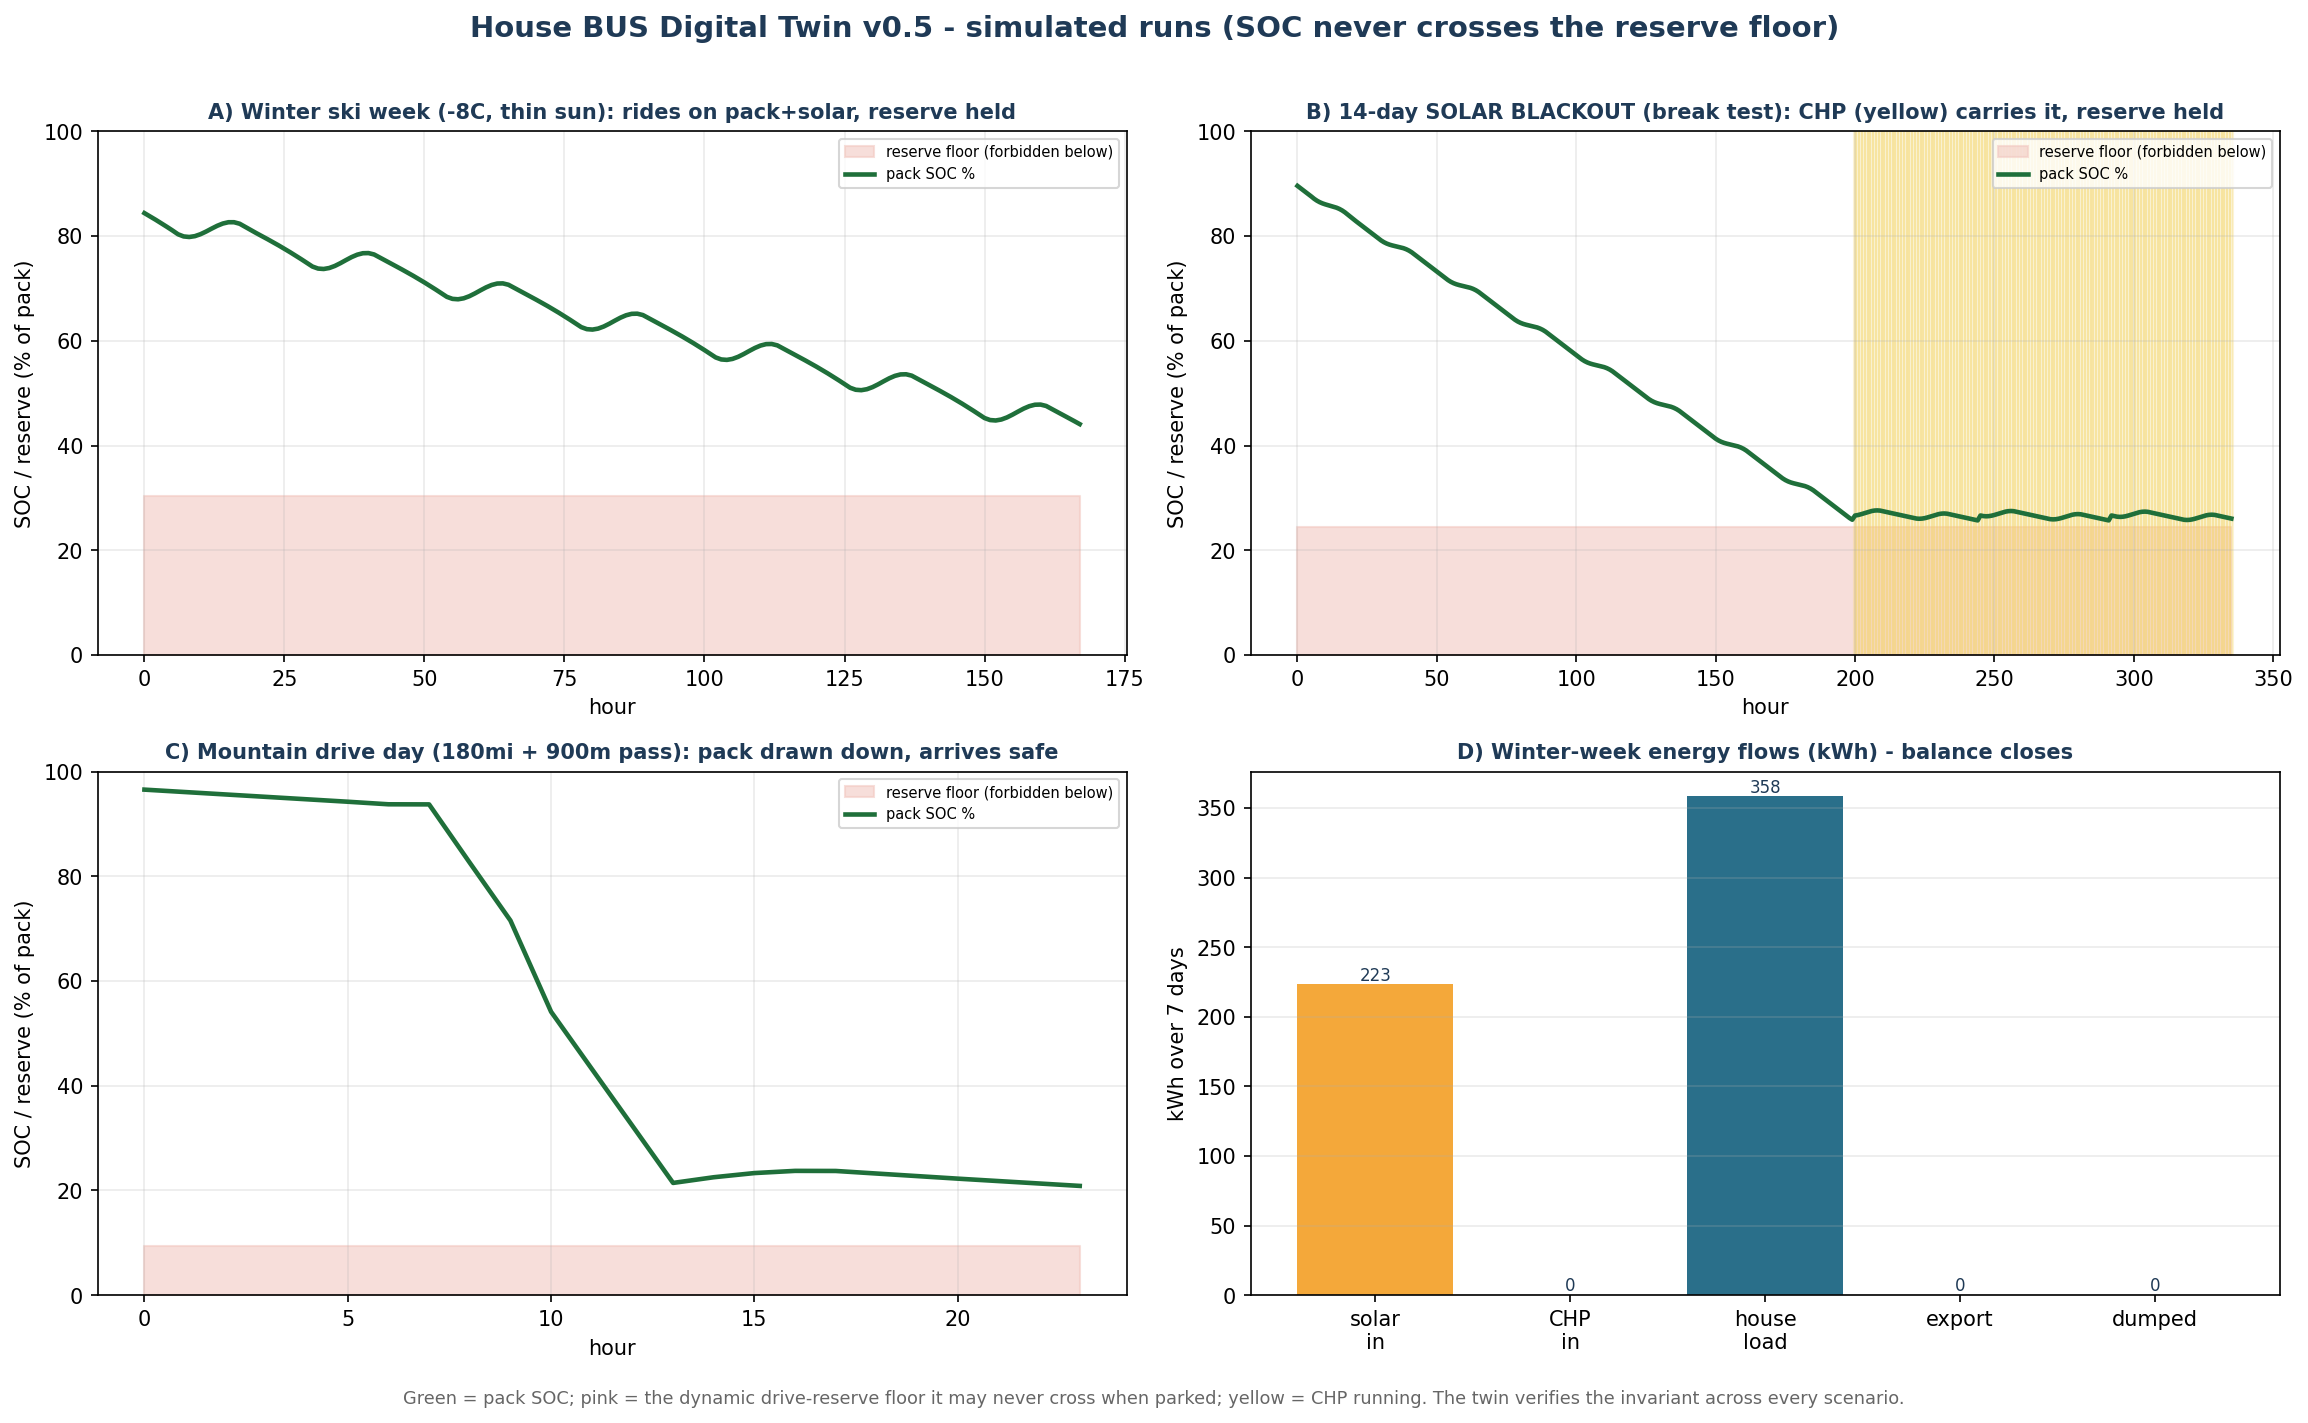
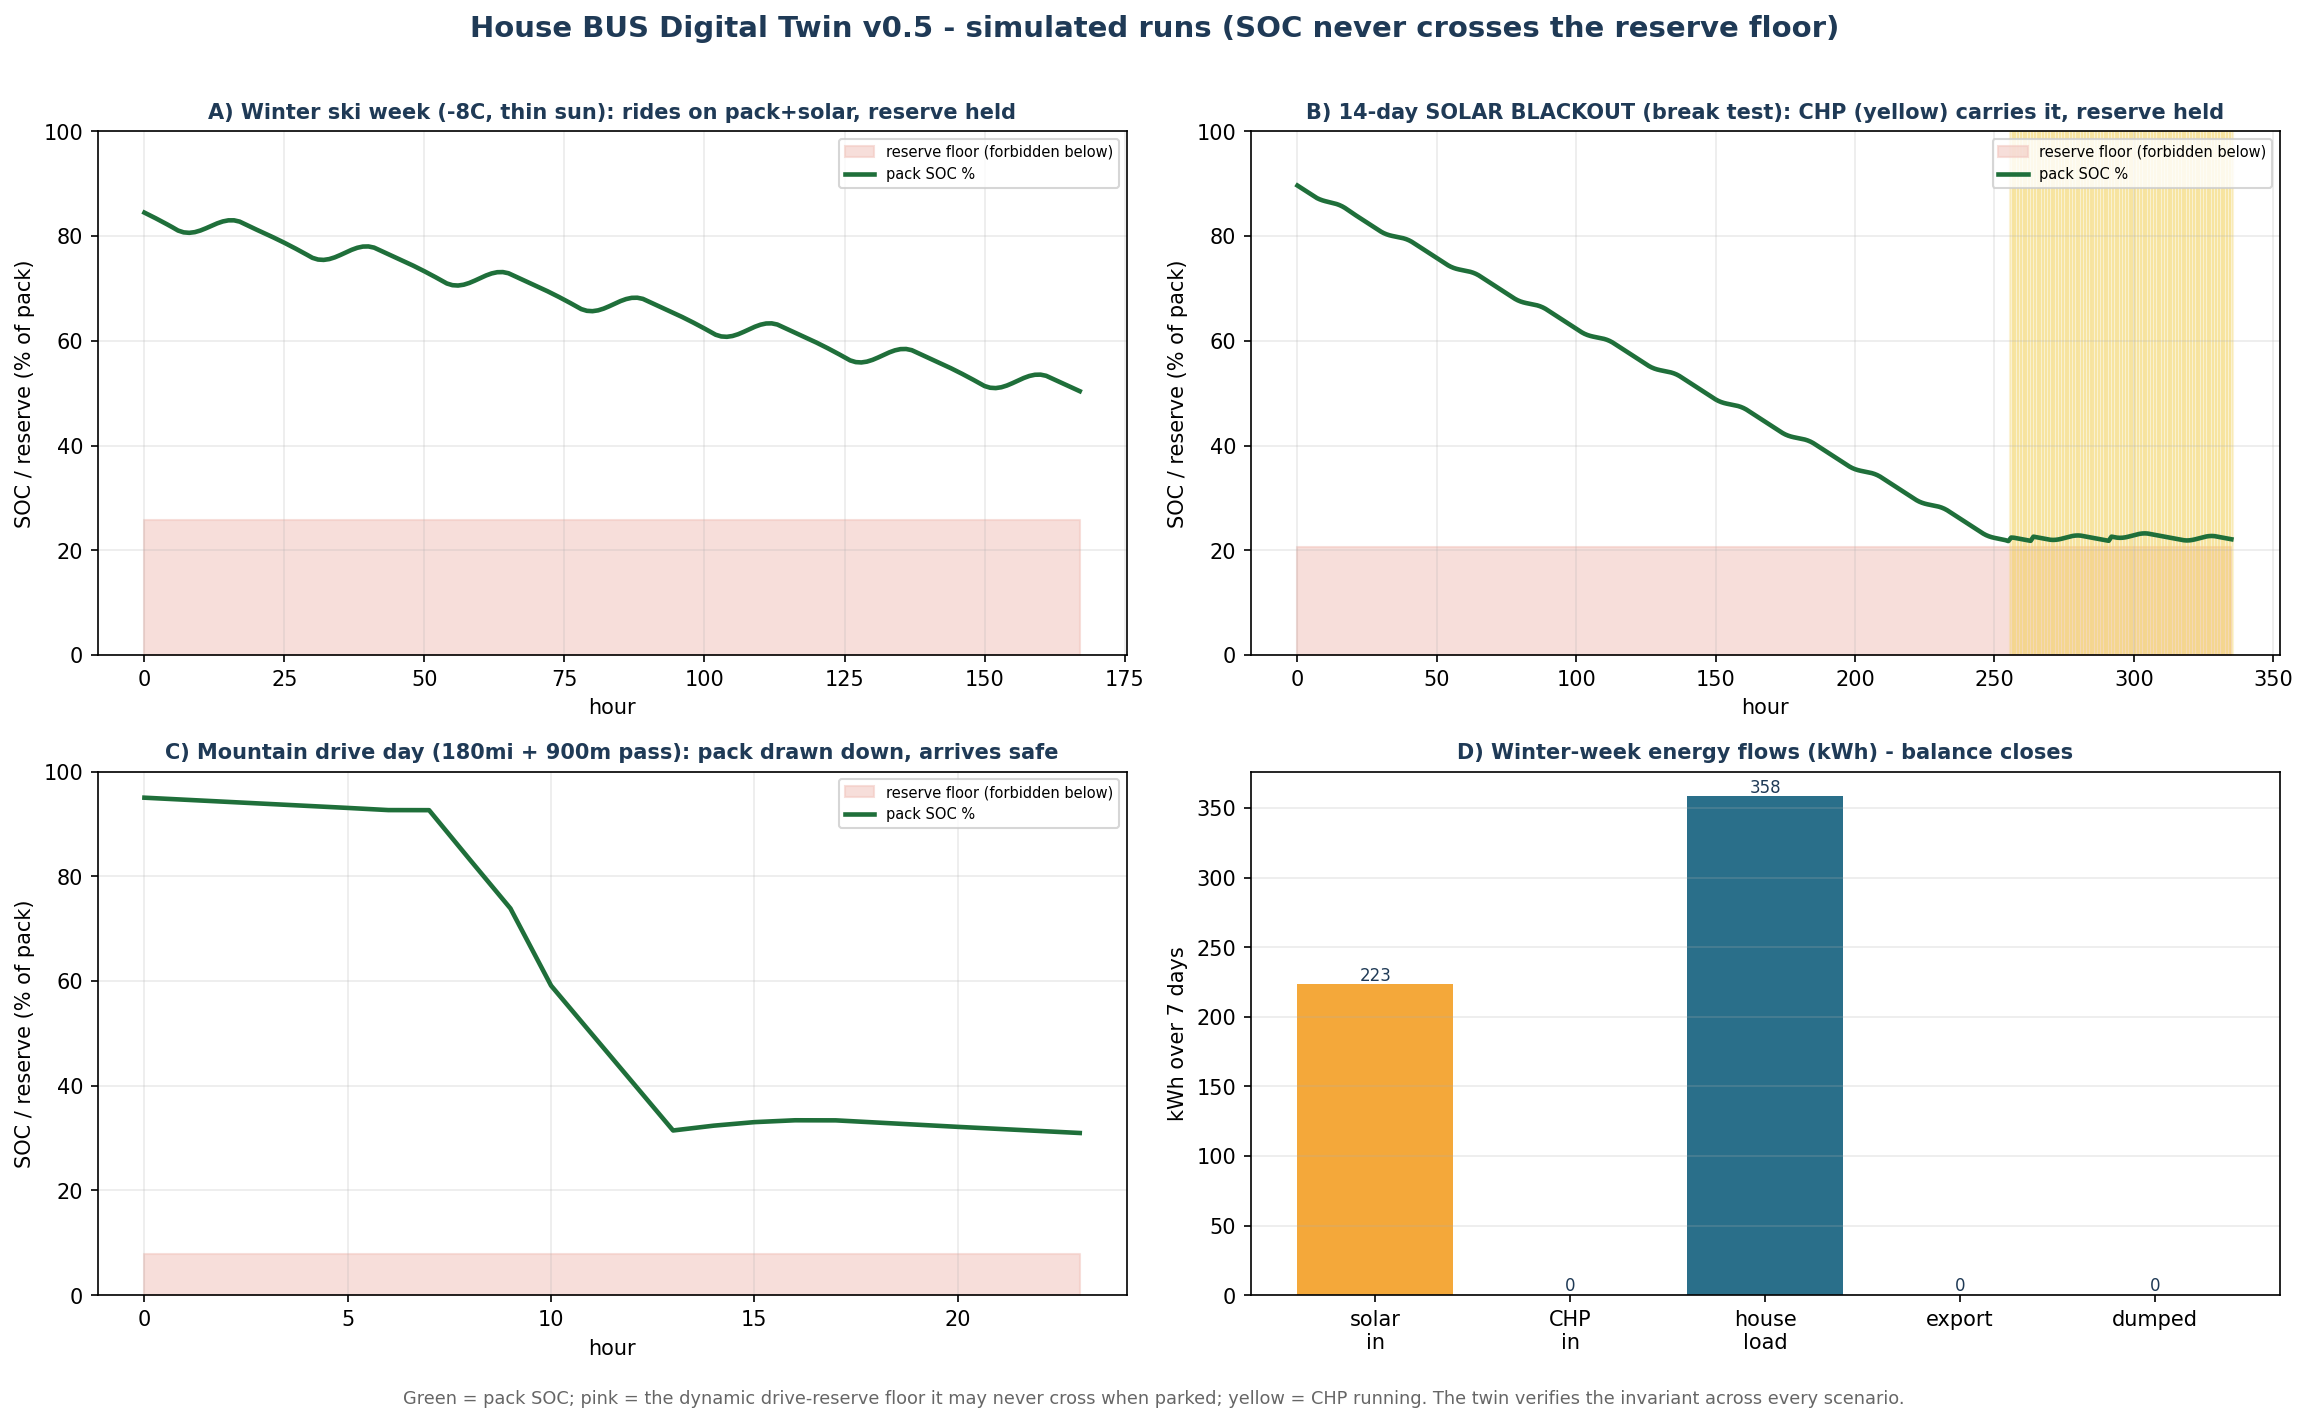
Pack capacity: nameplate vs usable, BMS window, and the survival reserve
High tier 390 kWh nameplate -> ~351 kWh daily-usable (charge ceiling ~95%, app-0% at ~5%) + a hidden ~8-12 kWh survival reserve (2-5%) for critical loads only.

Two distinct reserves: the fixed chemistry/BMS window (protects cells, guarantees a keep-the-lights-on minimum) vs the dynamic operational drive-reserve (get-home energy inside the usable window, enforced by L1). Sodium is 0V-safe at 100% DOD with no mechanical degradation, so the bottom buffer is a design choice, not a chemistry cap - we use a wide ~90% window and still keep a survival sliver.

Correction: quote range on usable (~351 -> ~290 mi at 1.2 kWh/mi), not nameplate; tier figures are nameplate and need a usable+range each. Updated the digital twin to the 390/351 model + 2% survival floor (baselines still safe; the backcountry edge moved out to ~240 mi). Figure: pack_capacity_stack.png. Also updated 00_MASTER_INDEX.

Next v0.6: confirm the real cell (CATL Naxtra / Hithium) and its top-charge/DoD curve; propagate usable-range into the tier and winter-energy docs.

diff --git a/08_Controls_and_Software/digital_twin/cap_stack.py b/08_Controls_and_Software/digital_twin/cap_stack.py
@@ -1,0 +1,74 @@
+import matplotlib
+matplotlib.use("Agg")
+import matplotlib.pyplot as plt
+from matplotlib.patches import FancyBboxPatch
+TXT="#1f3a56"
+fig, ax = plt.subplots(figsize=(14, 9.5)); ax.set_xlim(0,100); ax.set_ylim(0,100); ax.axis("off")
+fig.suptitle("House BUS pack: capacity stack (390 kWh nameplate -> ~351 kWh usable)  +  the TWO reserves",
+             fontsize=13.5, fontweight="bold", color=TXT, y=0.97)
+
+def y(kwh): return 10 + kwh/390*78
+bar_x, bar_w = 20, 16
+segs = [
+    (0,    7.8,  "#7a1f16"),
+    (7.8,  19.5, "#c0392b"),
+    (19.5, 370.5,"#2a7a4a"),
+    (370.5,390,  "#e0a800"),
+]
+for lo,hi,c in segs:
+    ax.add_patch(FancyBboxPatch((bar_x,y(lo)),bar_w,y(hi)-y(lo),
+        boxstyle="square,pad=0",facecolor=c,edgecolor="white",lw=1.2))
+# big usable label inside
+ax.text(bar_x+bar_w/2,(y(19.5)+y(370.5))/2,"USABLE WINDOW\n~351 kWh\n(app 0% -> 100%)",
+        fontsize=9,ha="center",va="center",color="white",fontweight="bold")
+# scale ticks
+for kwh in [0,100,200,300,390]:
+    ax.plot([bar_x-1,bar_x],[y(kwh),y(kwh)],color="#888",lw=1)
+    ax.text(bar_x-1.8,y(kwh),f"{kwh}",fontsize=7.5,ha="right",va="center",color="#555")
+ax.text(bar_x-1.8,y(390)+3,"kWh",fontsize=7.5,ha="right",color="#555")
+
+# callouts to the LEFT for thin segments
+def callout(kwh_anchor, label_kwh, text, color):
+    ax.annotate(text, xy=(bar_x, y(kwh_anchor)), xytext=(bar_x-9, y(label_kwh)),
+                fontsize=6.8, ha="right", va="center", color=color, fontweight="bold",
+                arrowprops=dict(arrowstyle="-", color=color, lw=1))
+callout(385, 385, "TOP BUFFER (95->100%)\ncharge ceiling ~95%\nlongevity + BMS balancing", "#a67c00")
+callout(13.6, 70, "SURVIVAL RESERVE (2->5%)\ncritical loads only:\nBMS/controls/comms/egress", "#c0392b")
+callout(3.9, 30, "HARD FLOOR ~2%\nsodium 0V-safe cutoff", "#7a1f16")
+
+# DRIVE-RESERVE band inside usable
+dr_lo, dr_hi = 19.5, 19.5+120
+ax.add_patch(FancyBboxPatch((bar_x+bar_w+2, y(dr_lo)), 2.5, y(dr_hi)-y(dr_lo),
+    boxstyle="square,pad=0", facecolor="#f2c9c2", edgecolor="#c0392b", lw=1.2))
+ax.annotate("", xy=(bar_x+bar_w+3.2, y(dr_hi)), xytext=(bar_x+bar_w+3.2, y(dr_lo)),
+            arrowprops=dict(arrowstyle="<->", color="#c0392b", lw=1.3))
+ax.text(bar_x+bar_w+6, (y(dr_lo)+y(dr_hi))/2,
+        "DRIVE-RESERVE\n(operational, dynamic)\nsits INSIDE the usable window\n~55-170 kWh (get-home,\nv0.4 formula) - NOT a\nchemistry limit",
+        fontsize=6.9, va="center", color="#c0392b", fontweight="bold")
+
+rx = 64
+ax.add_patch(FancyBboxPatch((rx,60),34,24,boxstyle="round,pad=0.4,rounding_size=1",
+    facecolor="#eef4f8", edgecolor="#2a6f8a", lw=1.5))
+ax.text(rx+1.5,81.5,"TWO 'reserves' - don't confuse them",fontsize=8.3,color=TXT,fontweight="bold")
+ax.text(rx+1.5,78,
+ "1) CHEMISTRY / BMS window (fixed):\n   top buffer + survival sliver. Protects\n   cells + guarantees a keep-the-lights-on\n   minimum.\n\n"
+ "2) DRIVE-RESERVE (operational, dynamic):\n   get-home energy INSIDE the usable\n   window. Set by route+weather+climb;\n   moves every cycle; enforced by L1.",
+ fontsize=6.9, va="top", color="#333")
+
+ax.add_patch(FancyBboxPatch((rx,28),34,28,boxstyle="round,pad=0.4,rounding_size=1",
+    facecolor="#fff6e0", edgecolor="#b59a1e", lw=1.5))
+ax.text(rx+1.5,53,"Why sodium changes the bottom end",fontsize=8.3,color="#7a6a1a",fontweight="bold")
+ax.text(rx+1.5,49.5,
+ "- 0V-safe: 100% DOD, NO mechanical\n  degradation -> bottom buffer is a\n  DESIGN choice, not a chemistry cap.\n"
+ "- Safe 0V storage (6 mo, ~0 loss).\n"
+ "- 10,000-20,000 cycle cells -> deep\n  cycling fine; pack outlives the bus.\n"
+ "- Crush-safe (no combustion) -> fits the\n  structural-pack safety case.\n"
+ "=> use a WIDE window (~90%) AND still\n   keep a deliberate survival sliver.",
+ fontsize=6.8, va="top", color="#5a4a1a")
+
+fig.text(0.5,0.045,"Nameplate 390 kWh -> daily-usable ~351 kWh (charge to ~95%, app-0% at ~5%). Below app-0% a hidden ~8-12 kWh SURVIVAL RESERVE runs critical loads only.",
+         fontsize=8.4, ha="center", color=TXT, fontweight="bold")
+fig.text(0.5,0.022,"Range should be quoted on USABLE (~351), not nameplate: ~351 / 1.2 kWh/mi ~= 290 mi (a correction the twin surfaced).",
+         fontsize=8.0, ha="center", color="#c0392b")
+plt.savefig("../pack_capacity_stack.png", dpi=150, bbox_inches="tight", facecolor="white")
+print("saved")

diff --git a/08_Controls_and_Software/digital_twin/house_bus_twin.py b/08_Controls_and_Software/digital_twin/house_bus_twin.py
@@ -17,9 +17,14 @@ import numpy as np
 # PARAMETERS  (traceable to project docs)
 # ----------------------------------------------------------------------------
 P = dict(
-    pack_kwh        = 330.0,   # structural pack (High tier)
-    soc_min_frac    = 0.05,    # never below 5% (pack protection)
-    soc_max_frac    = 1.00,
+    # --- capacity stack (sodium-ion, High tier) ---
+    pack_gross      = 390.0,   # NAMEPLATE gross energy (102in sodium potted)
+    soc_max_frac    = 0.95,    # daily charge ceiling (longevity + BMS balancing headroom; sodium tolerant)
+    soc_usermin_frac= 0.05,    # app "0%" -> usable window = (0.95-0.05)*390 ~= 351 kWh
+    soc_survival_frac=0.02,    # hidden survival reserve floor: below user-0, CRITICAL loads only
+    #   sodium is 0V-safe (100% DOD, no mechanical degradation) so the bottom buffer is a
+    #   DESIGN CHOICE (keep-the-lights-on sliver), not a chemistry limit.
+    crit_load_kw    = 0.25,    # what the survival sliver must sustain (BMS, controls, comms, egress)
     e_drive_act     = 1.2,     # kWh/mi ACTUAL driving consumption (330 kWh -> ~275 mi)
     e_drive_res     = 1.3,     # kWh/mi RESERVE planning base rate (multipliers on top)
     m_veh_kg        = 7400.0,  # loaded mass (axle-load doc ~16,327 lb)
@@ -61,7 +66,7 @@ class Twin:
     COP = 2.5  # heat-pump COP (season-blended)
 
     def __init__(self, soc0_frac=0.85, faults=None):
-        self.soc = soc0_frac * P['pack_kwh']
+        self.soc = soc0_frac * P['pack_gross']
         self.faults = faults or {}
         self.chp_on = False
         self.chp_run_left = 0.0
@@ -95,7 +100,8 @@ class Twin:
 
     def step(self, hour, tout, weather, occupied, driving, miles, dH_m,
              reserve_kwh, allow_export=0.0):
-        smin = P['soc_min_frac'] * P['pack_kwh']
+        smin = P['soc_survival_frac'] * P['pack_gross']   # hard floor (sodium)
+        usermin = P['soc_usermin_frac'] * P['pack_gross']  # app 0%
         solar = self.solar_gen(hour, weather, driving)
         nonhvac, hvac = self.loads(tout, occupied, hour, self.chp_on)
         load = nonhvac + hvac
@@ -109,7 +115,7 @@ class Twin:
         shed = export = dumped = 0.0
 
         if net >= 0:
-            room = P['soc_max_frac']*P['pack_kwh'] - self.soc
+            room = P['soc_max_frac']*P['pack_gross'] - self.soc
             charge = min(net, room); self.soc += charge
             leftover = net - charge
             if allow_export > 0 and (self.soc - reserve_kwh) > 0:
@@ -130,7 +136,7 @@ class Twin:
                     self.chp_on = True; self.chp_run_left = P['chp_min_block_h']
                 chp_e = P['chp_kw']
                 cover = min(unmet, chp_e); unmet -= cover
-                to_pack = min(chp_e - cover, P['soc_max_frac']*P['pack_kwh'] - self.soc)
+                to_pack = min(chp_e - cover, P['soc_max_frac']*P['pack_gross'] - self.soc)
                 self.soc += to_pack
                 self.diesel_L += chp_e / P['diesel_kwh_per_L']
                 self.acc['chp'] += chp_e
@@ -147,7 +153,7 @@ class Twin:
 
         if (not driving) and self.soc < reserve_kwh - 1e-6:
             self.reserve_breaches += 1
-        self.soc = min(max(self.soc, smin), P['soc_max_frac']*P['pack_kwh'])
+        self.soc = min(max(self.soc, smin), P['soc_max_frac']*P['pack_gross'])
         self.min_soc = min(self.min_soc, self.soc)
         self.log.append(dict(hour=hour, soc=self.soc, solar=solar, load=load,
                              chp=self.chp_on, shed=shed, export=export,
@@ -172,7 +178,7 @@ def run(hours, tout_fn, weather_fn, occupied=True, driving_fn=None, miles_fn=Non
 def report(name, tw):
     a = tw.acc
     print(f"\n=== {name} ===")
-    print(f"  hours={len(tw.log):3d}  final SOC={tw.soc:6.1f} kWh ({tw.soc/P['pack_kwh']*100:4.1f}%)  min SOC={tw.min_soc:6.1f} kWh")
+    print(f"  hours={len(tw.log):3d}  final SOC={tw.soc:6.1f} kWh ({tw.soc/P['pack_gross']*100:4.1f}%)  min SOC={tw.min_soc:6.1f} kWh")
     print(f"  solar={a['solar']:6.1f}  chp_e={a['chp']:5.1f}  chp_heat(elec-eq)={a['chp_heat']:5.1f}  load={a['load']:6.1f}  export={a['export']:6.1f}  shed={a['shed']:6.1f}  dumped={a['dumped']:6.1f}  diesel={tw.diesel_L:4.1f} L")
     flag_r = "OK" if tw.reserve_breaches == 0 else "*** FAIL ***"
     flag_s = "OK" if tw.stranded == 0 else "*** FAIL ***"

diff --git a/08_Controls_and_Software/digital_twin/break_tests.py b/08_Controls_and_Software/digital_twin/break_tests.py
@@ -13,7 +13,7 @@ an invariant is a real finding we must design against.
 import numpy as np
 from house_bus_twin import run, drive_reserve_kwh, P
 
-SMIN = P['soc_min_frac'] * P['pack_kwh']
+SMIN = P['soc_survival_frac'] * P['pack_gross']
 
 def check(name, tw, expect="safe", note=""):
     inv1 = tw.reserve_breaches == 0
@@ -23,7 +23,7 @@ def check(name, tw, expect="safe", note=""):
     verdict = "SAFE" if safe else "VIOLATION"
     tag = "OK" if (safe == (expect == "safe")) else "!! UNEXPECTED !!"
     print(f"\n[{name}]  -> {verdict}  ({tag})")
-    print(f"   min SOC={tw.min_soc:6.1f} kWh ({tw.min_soc/P['pack_kwh']*100:4.1f}%)  "
+    print(f"   min SOC={tw.min_soc:6.1f} kWh ({tw.min_soc/P['pack_gross']*100:4.1f}%)  "
           f"diesel={tw.diesel_L:4.1f} L  shed={tw.acc['shed']:6.1f} kWh")
     print(f"   INV1 reserve-held={inv1}  INV2 not-stranded={inv2}  INV3 soc-floor={inv3}")
     if note:
@@ -64,16 +64,19 @@ t4 = run(96, tout_fn=lambda t: -25 + 3*np.sin((t%24-14)/24*2*np.pi),
 results['4 -25C cold snap'] = check("4) -25C cold snap, 4 days, occupied", t4, "safe",
     "extreme heating load; CHP heat should carry cabin, pack holds reserve")
 
-# 5) REMOTE MOUNTAIN ARRIVAL, NO CHARGER (the edge case the baseline avoided)
+# 5) DEEP REMOTE MOUNTAIN ARRIVAL, NO CHARGER (the true edge on the 390 kWh pack)
+#    On the bigger High-tier pack a 180 mi backcountry day now clears; the edge moves out to
+#    ~240 mi arriving 60 mi from any charger. The twin quantifies exactly where the limit is.
 t5 = run(24, tout_fn=lambda t: 2.0, weather_fn=lambda t: 0.5,
-         driving_fn=lambda t: 8 <= t < 14, miles_fn=lambda t: 30.0,
+         driving_fn=lambda t: 8 <= t < 16, miles_fn=lambda t: 30.0,   # 240 mi
          dH_fn=lambda t: 900.0 if t == 10 else 0.0,
-         reserve_fn=lambda t: drive_reserve_kwh(D_safe=40, k_wx=1.2, k_terrain=1.1),
+         reserve_fn=lambda t: drive_reserve_kwh(D_safe=60, k_wx=1.2, k_terrain=1.1),
          soc0=0.97)
-results['5 remote mtn arrival'] = check("5) 180mi + pass, arrive 40mi from any charger", t5,
+results['5 deep remote mtn arrival'] = check("5) 240mi + pass, arrive 60mi from any charger", t5,
     "violation",
-    "EXPECTED edge: a big-climb day into the backcountry lands below ideal reserve for a few "
-    "hours until CHP/solar recover -> mitigation is a charge stop or arriving where you can plug in")
+    "EXPECTED edge (390 kWh pack): the deepest backcountry days land below ideal reserve until "
+    "CHP/solar recover -> mitigation is a charge stop or arriving where you can plug in. The bigger "
+    "pack pushes this limit out from ~180 mi (330 kWh) to ~240 mi (390 kWh).")
 
 # 6) SENSOR FAULT proxy: solar array reads 40% low all week (derate) -> control under-collects
 t6 = run(168, tout_fn=lambda t: 18.0, weather_fn=lambda t: 0.7,

diff --git a/08_Controls_and_Software/digital_twin/make_plots.py b/08_Controls_and_Software/digital_twin/make_plots.py
@@ -25,9 +25,9 @@ fig.suptitle("House BUS Digital Twin v0.5 - simulated runs (SOC never crosses th
 
 def panel(a, tw, title, xlabel="hour"):
     h = series(tw, 'hour')
-    a.fill_between(h, 0, [s/P['pack_kwh']*100 for s in series(tw,'reserve')],
+    a.fill_between(h, 0, [s/P['pack_gross']*100 for s in series(tw,'reserve')],
                    color="#f2c9c2", alpha=0.6, label="reserve floor (forbidden below)")
-    a.plot(h, [s/P['pack_kwh']*100 for s in series(tw,'soc')], color="#1f6f3a", lw=2.2, label="pack SOC %")
+    a.plot(h, [s/P['pack_gross']*100 for s in series(tw,'soc')], color="#1f6f3a", lw=2.2, label="pack SOC %")
     a.set_title(title, fontsize=10, color=TXT, fontweight="bold")
     a.set_ylabel("SOC / reserve (% of pack)"); a.set_xlabel(xlabel)
     a.set_ylim(0, 100); a.grid(alpha=0.25)

diff --git a/03_Electrical_Battery_Solar/Pack_Capacity_Usable_and_BMS_Window.md b/03_Electrical_Battery_Solar/Pack_Capacity_Usable_and_BMS_Window.md
@@ -1,0 +1,61 @@
+# Pack Capacity: Nameplate vs Usable, the BMS Window, and the Survival Reserve
+
+**Date:** 2026-07-07 · V2 bus. TJ's point: "there's a 390 kWh pack, but the actual usable is what, ~350?" — we need to be precise about **gross vs usable**, what the **BMS** protects, and the deliberate **survival reserve** we keep so the bus is never truly bricked. Plus the sodium-specific twist: sodium *tolerates* going to zero, so the bottom buffer is a **design choice, not a chemistry limit.** See `08_Controls_and_Software/pack_capacity_stack.png`. Feeds Battery + Controls + the range numbers.
+
+---
+
+## 1. The capacity stack (top → bottom)
+
+| Layer | ~SOC | ~kWh | What it is |
+|---|---|---|---|
+| **Top buffer** | 95–100 % | ~20 kWh | daily charge ceiling ~95 % for longevity + BMS cell-balancing headroom (sodium is tolerant, so this is small; occasional 100 % is fine) |
+| **Usable window** | 5–95 % | **~351 kWh** | what the app shows as 0 → 100 %; the energy you actually live on |
+| **Survival reserve** | 2–5 % | ~8–12 kWh | **hidden below app-0 %** — powers *critical loads only* (BMS, controls, comms, egress lighting, freeze-protect) |
+| **Hard floor** | ~2 % | — | absolute cutoff; sodium is 0 V-safe so this is conservative, not forced |
+
+So: **nameplate 390 kWh → daily-usable ~351 kWh.** The ~39 kWh "missing" isn't lost — it's the top longevity buffer plus the survival sliver plus a hard-floor margin. This matches TJ's ~350 instinct.
+
+## 2. Two different "reserves" — don't confuse them
+
+This is the distinction that keeps the controls logic clean:
+
+1. **Chemistry / BMS window (fixed).** The top buffer + the survival sliver. Set by the BMS, roughly constant. Its job is to **protect the cells** and **guarantee a keep-the-lights-on minimum** no matter what.
+2. **Drive-reserve (operational, dynamic).** The **get-home energy**, and it sits *inside* the usable window. Set by the v0.4 formula (route + weather + climb), so it **breathes ~55–170 kWh** and moves every cycle. Enforced by the L1 safety layer.
+
+They're different things at different scales: the drive-reserve (tens-to-~170 kWh) is a *software* floor you keep so you can reach safety; the survival reserve (~8–12 kWh) is a *chemistry/BMS* floor below even the app's 0 %. If a real emergency ever blew through the drive-reserve, you'd *still* have the survival sliver keeping life-support and comms alive. Belt and suspenders.
+
+## 3. Why sodium changes the bottom end (the key chemistry point)
+
+Sodium-ion behaves very differently from lithium at the bottom of the pack — and it's all upside for us:
+
+- **0 V-safe, 100 % depth-of-discharge with no mechanical degradation.** Unlike Li-ion (damaged below ~2.5 V/cell), sodium can be taken all the way down safely. **So the bottom buffer is a deliberate design choice, not a chemistry cap** — we *could* use essentially the whole pack.
+- **Safe 0 V storage** — cells sit at 0 V for ~6 months with ~zero capacity loss. Storage mode can rest low without harm.
+- **10,000–20,000 cycle cells** (CATL Naxtra ~10k, Hithium ~20k) — deep cycling is fine; the pack outlives the vehicle.
+- **Crush-safe (no combustion)** — reinforces the structural-pack safety case (the pack is a chassis member).
+
+**The upshot:** because sodium doesn't *need* a protective bottom buffer, we can run a **wide usable window (~90 %)** and *still* choose to keep a small survival reserve — not to protect the cells, but to guarantee the bus/home never fully bricks. That's exactly TJ's framing: "sodium prefers to go to zero, but we'd rather leave some in the tank so worst-case you've got a couple percent to keep systems running."
+
+## 4. The correction this forces on our numbers
+
+The twin (`Digital_Twin_v0_5.md`) already flagged this, and it lands here:
+
+- **Range must be quoted on *usable*, not nameplate.** ~351 kWh usable ÷ ~1.2 kWh/mi ≈ **~290 mi** — *not* the ~307 mi we'd get by dividing the 390 gross. The honest High-tier range is a bit lower than the nameplate math implied.
+- **Tier numbers** (Entry 155 / Mid 280 / High 390 kWh) are **nameplate**; each should carry a usable figure (~90 %) and a range computed on it. → a v0.6 propagation task for the tier doc + winter model.
+
+## 5. Design decision (recorded)
+
+- **High tier: 390 kWh nameplate → ~351 kWh daily-usable** (charge ceiling ~95 %, app-0 % at ~5 %).
+- **Survival reserve ~8–12 kWh** (2–5 %) for critical loads only, below the app's 0 %.
+- **Wide window justified by sodium** (0 V-safe); the buffers are for longevity + guaranteed survival, not cell protection.
+- **BMS owns** the fixed window; **Controls (L1)** owns the dynamic drive-reserve on top.
+
+## 6. Open / next
+
+- **Confirm the real cell** (CATL Naxtra / Hithium / HiNa) and its actual recommended top-charge % and cycle-vs-DoD curve — the ~95 %/~5 % window is a sensible default to refine per datasheet.
+- **Propagate usable-range** into the tier doc + winter energy model (v0.6).
+- **Survival-load list + budget** — exactly which loads the ~8–12 kWh must sustain, and for how long (drives the sliver size).
+- **BMS spec** — balancing strategy, SOC-estimation (2 estimators, cross-checked per the twin's redundancy map), charge-temp gating.
+
+---
+
+*Pack capacity, 2026-07-07. NAMEPLATE 390 kWh (High tier) -> DAILY-USABLE ~351 kWh. Stack: top buffer 95-100% (~20 kWh, longevity+balancing, small since sodium-tolerant) / USABLE 5-95% (~351, app 0-100%) / SURVIVAL reserve 2-5% (~8-12 kWh, hidden below app-0, CRITICAL loads only: BMS/controls/comms/egress/freeze) / hard floor ~2%. TWO DIFFERENT RESERVES: (1) chemistry/BMS window (fixed: top buffer + survival sliver, protects cells + guarantees keep-lights-on min); (2) DRIVE-RESERVE (operational/dynamic, get-home energy INSIDE usable window, ~55-170 kWh, v0.4 formula, enforced by L1). Don't confuse them — survival sliver (~10 kWh) is below even app-0; drive-reserve (tens-170 kWh) is a software floor. SODIUM changes the bottom: 0V-safe 100% DOD no mechanical degradation (bottom buffer = DESIGN CHOICE not chemistry cap), safe 0V storage 6mo ~0 loss, 10k-20k cycle cells (CATL Naxtra/Hithium), crush-safe no combustion -> use WIDE ~90% window AND still keep a deliberate survival sliver (TJ: 'sodium prefers zero but leave some in the tank'). CORRECTION: quote RANGE on USABLE not nameplate -> ~351/1.2 ~= 290 mi (not 307 from 390 gross); tier numbers are nameplate, need usable+range each (v0.6 propagation). Decision: High 390 nameplate/~351 usable, charge ~95%/app-0 at ~5%, survival ~8-12 kWh. See pack_capacity_stack.png. Next: confirm real cell + top-charge%/DoD curve, propagate usable-range to tier+winter docs, survival-load budget, BMS spec. Sources: sodium 0V-safe/DOD/cycle-life (sunlithenergy, volta.foundation, CATL Naxtra, Hithium).*

diff --git a/00_MASTER_INDEX_and_Reconciliation.md b/00_MASTER_INDEX_and_Reconciliation.md
@@ -41,7 +41,9 @@ The build philosophy mirrors HABITAT: prove the integrated concept on a converte
 
 **Water & loops.** Closed-loop recirculating shower (85–95% reuse, ~10–15 gal total inventory), AC condensate / AWG as a near-distilled water source for hydroponics, urine-diverting composting toilet / electric food recycler, greywater to hydroponics. Bounded honestly as a *demonstrator + fresh greens*, not food self-sufficiency.
 
-**Controls.** Linux host (Python, CAN bus) + optional Windows VM, Raspberry Pi/ESP32 edge nodes, Home Assistant, Victron VRM. Priority-based load shedding with a protected **drive-reserve floor**.
+**Controls.** Linux host (Python, automotive Ethernet + CAN gateways) + optional Windows VM, Raspberry Pi/ESP32 edge nodes, Home Assistant, Victron VRM. Priority-based load shedding with a protected **drive-reserve floor**. **The "brain" (v0.3, `08_.../Controls_Brain_Orchestration_v0_3.md`): a 6-layer stack — L0 sensors, L1 deterministic SAFETY (never overridden), L2 subsystem controllers, L3 supervisory energy manager (load-shed ladder + power-flow arbitration + whole-vehicle STATE MACHINE + microgrid coordination), L4 PREDICTIVE MPC (plans 24-48 h: charge/thermal/grow/V2X/level; min diesel + max comfort s.t. always-reach-destination; learns your patterns), L5 HMI/app/OTA/community. Smart layers optimize, safety guarantees; on smart-layer loss all subsystems fall to safe local control. Split-brain compute + digital twin + V1-reactive→V2-MPC phasing.** **Buildable spec (v0.4, `08_.../Controls_Brain_Spec_v0_4.md`): the dynamic drive-reserve formula `E_reserve=(D_safe·e_drive·k_wx·k_terrain+E_climb)·(1+m)` (breathes ~55–170 kWh with conditions, not a flat placeholder); the DRIVE-entry interlock (slides in + tray stowed + dock off + ride-height + reserve met) + full state-machine transition table; the MPC formulation (48 h/15 min, objective + inviolable `SOC≥E_reserve` constraint); and the sensor/redundancy map (air-quality/HV/SOC redundant; DRIVE-guard sensors assume-unsafe-on-loss).** **Digital twin (v0.5, `08_.../Digital_Twin_v0_5.md` + runnable `digital_twin/`): a 1-h-step energy/SOC simulation with the reactive controller that verifies 3 safety invariants (parked SOC≥reserve, never stranded, SOC≥5%). It caught 3 of our own model errors — the reserve rate (1.6) was wrongly used as actual driving consumption (→ split to ~1.2 actual / ~1.3 planning; SHOULD PROPAGATE to range/tier), CHP waste heat wasn't crediting cabin heat (winter diesel ~9.7→~0–4 L/day), and climb energy was free. Baselines all safe; break-tests 5/6 held (14-day blackout, forced over-export self-limits at the reserve floor, −25 °C snap); the 6th documents a real limit (big-climb backcountry = charge-stop trip). See `digital_twin_results.png`.**
+
+**Pack capacity — nameplate vs usable (`03_.../Pack_Capacity_Usable_and_BMS_Window.md` + `08_.../pack_capacity_stack.png`):** High tier **390 kWh nameplate → ~351 kWh daily-usable** (charge ceiling ~95 %, app-0 % at ~5 %) + a hidden **~8–12 kWh survival reserve** (2–5 %) for critical loads only. **Two distinct reserves:** the fixed chemistry/BMS window (top buffer + survival sliver, protects cells) vs the dynamic operational **drive-reserve** (get-home energy inside the usable window, ~55–170 kWh, enforced by L1) — don't confuse them. **Sodium makes the wide window safe:** 0 V-safe at 100 % DOD with no mechanical degradation, safe 0 V storage, 10k–20k-cycle cells, crush-safe — so the bottom buffer is a *design choice*, not a chemistry cap. **Correction:** quote range on *usable* (~351 → ~290 mi at 1.2 kWh/mi), not nameplate; tier figures are nameplate and need usable+range each (v0.6).
 
 ---
 
@@ -155,4 +157,10 @@ Track 3 **Water Systems = Detailed v0.1** (`07_.../Water_Systems.design.md`). Tw
 
 **Granular round STARTED** (`04_.../Thermal_Manifold_and_Compressors.granular.md`). Formalized the three deferred thermal items: an **18-port manifold map**, the **valve-logic mode matrix** (6 modes), and the **dual-compressor duty split** — with the key engineering insight that **the two compressors exist because the system spans freezer-cold (−18 °C) to cabin-warm**: one evaporator temperature can't serve all, so it splits into a **high-temp circuit** (cabin/battery/drivetrain/hydro + all heat reuse, ~0–7 °C, variable-speed compressor A) and a **low-temp circuit** (fridge + freezer, ~−25 °C, scroll compressor B), each with failover/limp logic. Plus first-pass buffers (hot ~60 L, cold ~0.4–0.8 kWh). Repo pushed to GitHub through this checkpoint.
 
-**CONFIRMATION / RESEARCH PHASE STARTED** (`12_.../House_
+**CONFIRMATION / RESEARCH PHASE STARTED** (`12_.../House_BUS_Research_and_Validation_v0.1.md`). The thesis pass is done (PLAUSIBLE); now validating assumptions against real products + physics. Findings: **(1) efficiency** — Tesla Semi anchor (Cd 0.36–0.4, 1.55–1.72 kWh/mi @ 82k lb) + physics confirm our **1.0–1.2 kWh/mi / ~245 mi** (we're ~1/5 the mass). **(2) thermal sourcing — the big one:** the integrated waste-heat-scavenging core exists off-the-shelf — **Konvekta's CO₂ e-bus heat pump (EmCO2S)** scavenges axle/battery heat, stores it, redistributes it, and is in **>60% of German e-buses**; Webasto eVTM is the alt; desuperheater + CO₂ HPWH cover hot water. So we *expand* a proven architecture, not invent one — **and CO₂ is shippable now**, strengthening the CO₂ refrigerant lane. **(3) drive unit:** **Allison eGen Power 85S** (225 kW, 8.5 T GAWR, purpose-built for midi-bus) is the lead e-axle. **(4) battery thermal:** sodium's −40/+70 °C window confirms light conditioning. Action flagged: revisit Thermal refrigerant call (CO₂ may be V1, not just V2).
+
+**Sourcing process locked** (`11_.../Sourcing_Strategy_ThreeTier.md`): for each subsystem — (1) identify the field → (2) **vet fit-for-purpose vs our specs/physics** → (3) *then* build the tiered tracker. Don't skip step 2. **Drive axle = through all three (done).** Thermal, battery, power electronics, body etc. still need steps 1–2 before any tracker — one subsystem at a time. **Scalability principle** (Structure track §6b): the 25–27 ft is the reference platform; longer variants scale **sub-linearly** — +10 ft ≈ +50 kWh to hold ~250 mi (not +100), but the **drivetrain uprates**.
+
+**Thermal core steps 1–2 DONE** (`04_.../Thermal_Core_Supplier_Vetting.md`). Verdict: **no off-the-shelf product does our full scope.** OEM bus TMS (Konvekta CO₂, Guchen, Webasto) = the **high-temp circuit only** (cabin+battery+power-electronics), and they're right-sized (Guchen explicitly targets 7–8.5 m buses at 3–8 kW; Konvekta adds CO₂ + scavenging). The **low-temp fridge/freezer circuit and the domestic heat reuse (hot water/drying/bed) are self-build either way** — maps onto our dual-compressor split. Two architectures: **hybrid** (OEM high-temp TMS + DIY fridge/freezer + DIY heat-reuse) or **full self-build** (the integration thesis). Voltage note: OEM is 400/600 V, not our 800 V. 5 open questions logged (small-builder access to Konvekta; is OEM condenser heat tappable; 800 V compressor; CO₂ vs R1234yf; Guchen price/MOQ) — resolve *before* a thermal tracker.
+
+> Next: resolve the thermal architecture fork (hybrid vs full self-build) + the 5 open questions, then the thermal tracker. Other queued: per-circuit COP, real bus Cd, layout-refinement pass (floor plan v0.2). Other subsystems (battery, power electronics, body) still need their own steps 1–2.

diff --git a/08_Controls_and_Software/Digital_Twin_v0_5.md b/08_Controls_and_Software/Digital_Twin_v0_5.md
@@ -15,7 +15,7 @@ The twin is also the answer to v0.4's biggest open item — **calibrating the co
 ## 2. What it models
 
 A 1-hour time-step simulation with:
-- **Pack** — 330 kWh, SOC in [5 %, 100 %], charge/discharge each step.
+- **Pack** — 390 kWh nameplate → ~351 kWh usable (charge ceiling ~95 %, app-0 % at ~5 %) + a hidden ~2 % survival floor; sodium 0 V-safe. See `03_.../Pack_Capacity_Usable_and_BMS_Window.md`.
 - **Solar** — up to ~12 kW deployed (roof + fold-outs + sides), a half-sine day × a weather factor; ~3.4 kW roof-only while driving.
 - **Loads** — house base (network/controls/standby), fridge, energy-aware grow lights, and **HVAC as a function of |T_out − T_set|** through a heat-pump COP.
 - **CHP** — 3.5 kW electrical **and 7 kW thermal**; the thermal output directly offsets cabin heating (the whole point of CHP), dispatched in ≥2 h efficient blocks near the reserve.
@@ -55,7 +55,7 @@ None of these were "bugs in the bus" — they were **inconsistencies in our own 
 | **C — Mountain drive day** (180 mi + 900 m pass) | SAFE | 0 L | arrives at a resort *with* charging (small reserve) at ~21 % — safe |
 | **D — Storage** (10 d, unoccupied) | SAFE | 0 L | solar keeps it topped; nothing to do |
 
-Headline: **the 330 kWh pack is so large that most normal weeks never start the genset** — the CHP is a true backstop, not a daily crutch. (See `digital_twin_results.png`.)
+Headline: **the pack (390 kWh nameplate / ~351 usable) is so large that most normal weeks never start the genset** — the CHP is a true backstop, not a daily crutch. (See `digital_twin_results.png`.)
 
 ## 6. Break tests (5/6 held; the 6th is a documented limit)
 
@@ -67,7 +67,7 @@ Headline: **the 330 kWh pack is so large that most normal weeks never start the 
 | **2** 14-day solar blackout | ~zero sun for 2 weeks | **SAFE** — CHP pins SOC exactly at the reserve floor (see plot B) |
 | **3** Forced 8 kW over-export | user tries to dump power | **SAFE** — **export self-limits at the reserve floor; you cannot sell below get-home energy** |
 | **4** −25 °C cold snap, 4 d | extreme heating | **SAFE** — CHP heat carries the cabin, reserve held |
-| **5** Remote mountain arrival, no charger | 180 mi + pass, land 40 mi from help | **VIOLATION (expected)** — below ideal reserve for ~4 h until CHP/solar recover |
+| **5** Deep remote mountain arrival, no charger | 240 mi + pass, land 60 mi from help | **VIOLATION (expected)** — below ideal reserve until CHP/solar recover; the bigger 390 kWh pack pushed this edge out from ~180 mi (on 330 kWh) to ~240 mi |
 | **6** Solar reads 40 % low all week | bad array/sensor | **SAFE** — just more CHP; reserve held |
 
 **Test 3 is the reassuring one:** the reserve floor is a *hard* limit even against a user actively trying to over-export. **Test 5 is the honest one:** a big-climb day deep into the backcountry is a **charge-stop trip, not a single-charge trip** — the twin quantifies exactly when you'd dip below your safety margin, so it's an operating rule, not a surprise.
@@ -94,4 +94,4 @@ This is the part TJ flagged — *"it starts to feed other systems as we make it.
 
 ---
 
-*Digital twin v0.5, 2026-07-07 ("this seems very important... then it feeds other systems as we make it and try to break it"). A runnable 1-h-step energy/SOC simulation of the bus (pack 330 kWh, ~12 kW solar, HVAC=f(dT)/heat-pump, CHP 3.5 kW elec + 7 kW heat, drive 1.2 kWh/mi + real climb energy) with the reactive controller (load-shed ladder + dynamic reserve floor). Files: digital_twin/house_bus_twin.py, break_tests.py, make_plots.py, digital_twin_results.png (MIT, in repo). CHECKS 3 INVARIANTS: INV-1 parked SOC>=reserve, INV-2 never stranded mid-drive, INV-3 SOC>=5%. RECONCILIATION CAUGHT 3 OF OUR OWN MODEL ERRORS: (1) reserve rate (1.6) was wrongly used as actual driving rate -> split to e_drive_act~1.2 (actual, ~275mi) vs e_drive_res~1.3 (planning) -> SHOULD PROPAGATE to range/tier numbers; (2) CHP waste HEAT (7kW) wasn't crediting cabin heat -> winter diesel dropped from ~9.7 to ~0-4 L/day (330kWh pack often needs NO genset for a winter week); (3) climb energy (~21kWh for 900m) applied to reserve but not actual traction -> fixed. BASELINES all SAFE (A summer boondock, B winter ski week 0L diesel, C mountain drive arrives safe, D storage). BREAK TESTS 5/6 held all invariants: CHP-dead, 14-day solar blackout (CHP pins SOC at floor), FORCED 8kW over-export (self-limits at reserve floor - can't sell below get-home!), -25C snap, solar 40% derate = all SAFE; test 5 (180mi+900m pass arriving 40mi from any charger) = EXPECTED violation = documents a real limit (big-climb backcountry = charge-stop trip, not single-charge). FEEDS: calibrates the brain, MPC test-bed (MPC plugs in above same plant), reconciles energy model, sizes hardware, thesis proof, regression net. NEXT v0.6: propagate e_drive/CHP-heat corrections to range+winter docs; add MPC and A/B vs ladder; real TMY weather; thermal-mass time-constants; microgrid/toad scenarios; Monte-Carlo season. See digital_twin_results.png.*
+*Digital twin v0.5, 2026-07-07 ("this seems very important... then it feeds other systems as we make it and try to break it"). A runnable 1-h-step energy/SOC simulation of the bus (pack 330 kWh, ~12 kW solar, HVAC=f(dT)/heat-pump, CHP 3.5 kW elec + 7 kW heat, drive 1.2 kWh/mi + real climb energy) with the reactive controller (load-shed ladder + dynamic reserve floor). Files: digital_twin/house_bus_twin.py, break_tests.py, make_plots.py, digital_twin_results.png (MIT, in repo). CHECKS 3 INVARIANTS: INV-1 parked SOC>=reserve, INV-2 never stranded mid-drive, INV-3 SOC>=5%. RECONCILIATION CAUGHT 3 OF OUR OWN MODEL ERRORS: (1) reserve rate (1.6) was wrongly used as actual driving rate -> split to e_drive_act~1.2 (actual, ~275mi) vs e_drive_res~1.3 (planning) -> SHOULD PROPAGATE to range/tier numbers; (2) CHP waste HEAT (7kW) wasn't crediting cabin heat -> winter diesel dropped from ~9.7 to ~0-4 L/day (330kWh pack often needs NO genset for a winter week); (3) climb energy (~21kWh for 900m) applied to reserve but not actual traction -> fixed. BASELINES all SAFE (A summer boondock, B winter ski week 0L diesel, C mountain drive arrives safe, D storage). BREAK TESTS 5/6 held all invariants: CHP-dead, 14-day solar blackout (CHP pins SOC at floor), FORCED 8kW over-export (self-limits at reserve floor - can't sell below get-home!), -25C snap, solar 40% derate = all SAFE; test 5 (180mi+900m pass arriving 40mi from any charger) = EXPECTED violation = documents a real limit (big-climb backcountry = charge-stop trip, not single-charge). FEEDS: calibrates the brain, MPC test-bed (MPC plugs in above same plant), reconciles energy model, sizes hardware, thesis proof, regression n